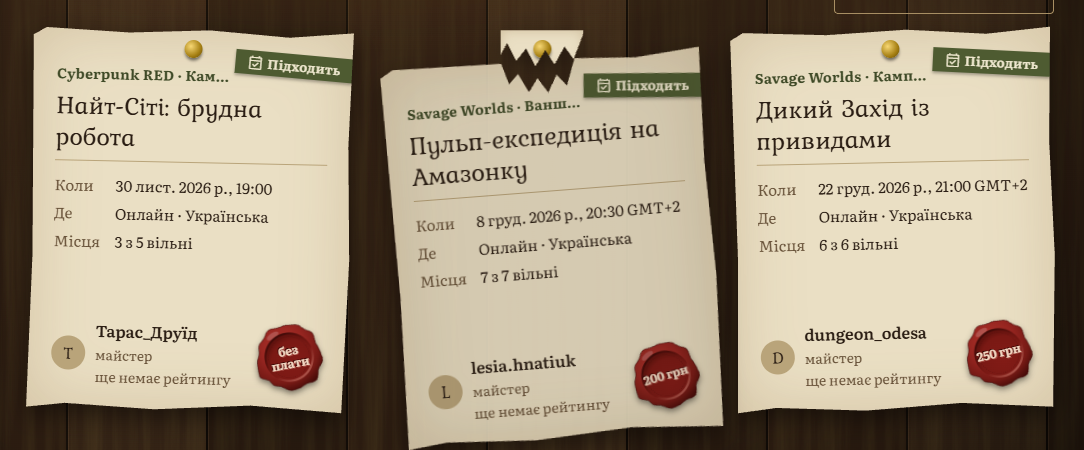
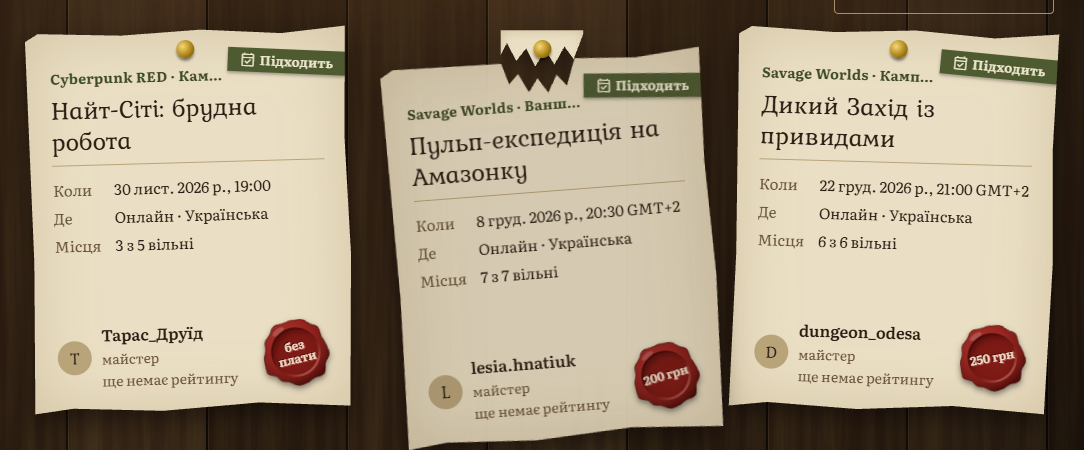
fix(frontend): tear-off guards and focus polish

diff --git a/frontend/src/app/theming/themes/quest-board/game-card/quest-board-game-card.spec.ts b/frontend/src/app/theming/themes/quest-board/game-card/quest-board-game-card.spec.ts
@@ -36,6 +36,8 @@ const game = {
 describe('QuestBoardGameCard — клік і відривання', () => {
   let navigate: ReturnType<typeof vi.fn<(url: unknown) => Promise<boolean>>>;
   let reducedMotion = false;
+  /** Справжній перехід роутера (до підміни шпигуном). */
+  let realNavigate: (url: string) => Promise<boolean>;
 
   async function mount(prefs: UiPrefsDto = { tearAnimation: true }) {
     await TestBed.configureTestingModule({
@@ -51,14 +53,22 @@ describe('QuestBoardGameCard — клік і відривання', () => {
     t.setTranslation('uk', uk);
     t.use('uk');
     navigate = vi.fn<(url: unknown) => Promise<boolean>>(async () => true);
-    vi.spyOn(TestBed.inject(Router), 'navigateByUrl').mockImplementation((url) => navigate(url));
+    const router = TestBed.inject(Router);
+    realNavigate = router.navigateByUrl.bind(router);
+    vi.spyOn(router, 'navigateByUrl').mockImplementation((url) => navigate(url));
+    return create();
+  }
+
+  /** Ще одне оголошення на тій самій «сторінці». */
+  async function create(id = game.id) {
     const fixture = TestBed.createComponent(QuestBoardGameCard);
     fixture.componentRef.setInput(
       'game',
-      toGameCardVm(game, null, { guest: false, genreKey: () => null }),
+      toGameCardVm({ ...game, id }, null, { guest: false, genreKey: () => null }),
     );
     fixture.detectChanges();
     await fixture.whenStable();
+    document.body.appendChild(fixture.nativeElement);
     return fixture;
   }
 
@@ -86,7 +96,7 @@ describe('QuestBoardGameCard — клік і відривання', () => {
 
   it('клік по аркушу: спершу анімація відривання, потім перехід на гру', async () => {
     const f = await mount();
-    vi.useFakeTimers({ toFake: ['setTimeout'] });
+    vi.useFakeTimers({ toFake: ['setTimeout', 'clearTimeout'] });
     click(article(f).querySelector('.sys')!);
     f.detectChanges();
     expect(article(f).classList).toContain('qb-tearing');
@@ -98,7 +108,7 @@ describe('QuestBoardGameCard — клік і відривання', () => {
 
   it('подвійний клік — один перехід', async () => {
     const f = await mount();
-    vi.useFakeTimers({ toFake: ['setTimeout'] });
+    vi.useFakeTimers({ toFake: ['setTimeout', 'clearTimeout'] });
     click(article(f));
     click(article(f));
     vi.advanceTimersByTime(TEAR_MS * 2);
@@ -107,7 +117,7 @@ describe('QuestBoardGameCard — клік і відривання', () => {
 
   it('назва (і Enter на ній) — та сама анімація замість звичайного переходу посилання', async () => {
     const f = await mount();
-    vi.useFakeTimers({ toFake: ['setTimeout'] });
+    vi.useFakeTimers({ toFake: ['setTimeout', 'clearTimeout'] });
     const link = article(f).querySelector<HTMLAnchorElement>('h2 a')!;
     expect(link.getAttribute('href')).toBe('/games/7');
     const ev = click(link, { detail: 0 });
@@ -159,6 +169,67 @@ describe('QuestBoardGameCard — клік і відривання', () => {
     navigate.mockResolvedValueOnce(false);
     click(article(f));
     await f.whenStable();
+    click(article(f));
+    expect(navigate).toHaveBeenCalledTimes(2);
+  });
+
+  it('виділення тексту деінде на сторінці не блокує клік по оголошенню', async () => {
+    const f = await mount();
+    const outside = document.createElement('p');
+    outside.textContent = 'Заголовок сторінки';
+    document.body.appendChild(outside);
+    document.getSelection()!.selectAllChildren(outside);
+    vi.useFakeTimers({ toFake: ['setTimeout', 'clearTimeout'] });
+    click(article(f));
+    vi.advanceTimersByTime(TEAR_MS);
+    expect(navigate).toHaveBeenCalledExactlyOnceWith('/games/7');
+    document.getSelection()!.removeAllRanges();
+    outside.remove();
+  });
+
+  it('анімацію вимкнено й виділено текст цього оголошення — клік не відкриває гру', async () => {
+    const f = await mount({ tearAnimation: false });
+    document.getSelection()!.selectAllChildren(article(f).querySelector('.sys')!);
+    click(article(f).querySelector('.sys')!);
+    expect(navigate).not.toHaveBeenCalled();
+    document.getSelection()!.removeAllRanges();
+  });
+
+  it('два оголошення поспіль під час анімації — перехід лише на перше', async () => {
+    const f = await mount();
+    const other = await create(8);
+    vi.useFakeTimers({ toFake: ['setTimeout', 'clearTimeout'] });
+    click(article(f));
+    click(article(other));
+    vi.advanceTimersByTime(TEAR_MS * 2);
+    expect(navigate).toHaveBeenCalledExactlyOnceWith('/games/7');
+    other.detectChanges();
+    expect(article(other).classList).not.toContain('qb-tearing');
+  });
+
+  it('інший перехід під час анімації скасовує відривання й повертає аркуш', async () => {
+    const f = await mount();
+    vi.useFakeTimers({ toFake: ['setTimeout', 'clearTimeout'] });
+    click(article(f));
+    // Справжній перехід деінде (маршрутів у тесті немає — він завершиться помилкою, але
+    // NavigationStart уже прозвучить).
+    await realNavigate('/calendar').catch(() => false);
+    vi.advanceTimersByTime(TEAR_MS);
+    expect(navigate).not.toHaveBeenCalled();
+    f.detectChanges();
+    expect(article(f).classList).not.toContain('qb-tearing');
+    // Можна відкрити знову — блокування «одне відривання» знято.
+    click(article(f));
+    vi.advanceTimersByTime(TEAR_MS);
+    expect(navigate).toHaveBeenCalledExactlyOnceWith('/games/7');
+  });
+
+  it('помилка переходу — аркуш повертається на місце, клік працює знову', async () => {
+    const f = await mount({ tearAnimation: false });
+    navigate.mockRejectedValueOnce(new Error('chunk load failed'));
+    click(article(f));
+    await f.whenStable();
+    await Promise.resolve();
     click(article(f));
     expect(navigate).toHaveBeenCalledTimes(2);
   });

diff --git a/frontend/src/app/theming/themes/quest-board/game-card/quest-board-game-card.ts b/frontend/src/app/theming/themes/quest-board/game-card/quest-board-game-card.ts
@@ -2,12 +2,15 @@ import {
   ChangeDetectionStrategy,
   Component,
   DestroyRef,
+  ElementRef,
   computed,
   inject,
   input,
   signal,
 } from '@angular/core';
-import { Router, RouterLink } from '@angular/router';
+import { takeUntilDestroyed } from '@angular/core/rxjs-interop';
+import { NavigationStart, Router, RouterLink } from '@angular/router';
+import { filter } from 'rxjs';
 import { MatIconModule } from '@angular/material/icon';
 import { TranslatePipe } from '@ngx-translate/core';
 import type { BadgeVm, GameCardVm } from '../../../../core/games/game-card.vm';
@@ -26,6 +29,12 @@ const MAX_STAMPS = 3;
 export const TEAR_MS = 520;
 /** Інтерактивні елементи всередині оголошення мають власну дію — клік по них не відкриває гру. */
 const INTERACTIVE = 'a, button, input, select, textarea, label, [role="button"]';
+
+/**
+ * Оголошення, що зараз відривається (одне на сторінку): клік по іншому, поки триває анімація,
+ * нічого не робить — інакше перейшли б обидва.
+ */
+let activeTear: symbol | null = null;
 
 /**
  * Слот `game-card` дизайну «Дошка оголошень»: оголошення, приколоте шпилькою до стіни.
@@ -71,6 +80,7 @@ export class QuestBoardGameCard implements GameCardSlot {
   });
 
   private readonly router = inject(Router);
+  private readonly host: HTMLElement = inject(ElementRef).nativeElement;
   private readonly themes = inject(ThemeService);
   protected readonly gameUrl = computed(() => `/games/${this.game().id}`);
   /** Анімацію ввімкнено в профілі (гість — так): тоді й текст оголошення не виділяється. */
@@ -78,12 +88,21 @@ export class QuestBoardGameCard implements GameCardSlot {
   protected readonly tearing = signal(false);
   /** Перехід уже почався — повторний клік (подвійний) нічого не робить. */
   private leaving = false;
+  /** Позначка цього оголошення для `activeTear`. */
+  private readonly tearToken = Symbol('tear');
   private timer: ReturnType<typeof setTimeout> | null = null;
 
   constructor() {
-    inject(DestroyRef).onDestroy(() => {
-      if (this.timer) clearTimeout(this.timer);
-    });
+    inject(DestroyRef).onDestroy(() => this.reset());
+    // Інший перехід (назад, посилання в шапці) під час анімації — скасовуємо свій.
+    this.router.events
+      .pipe(
+        filter((e) => e instanceof NavigationStart),
+        takeUntilDestroyed(),
+      )
+      .subscribe(() => {
+        if (this.timer) this.reset();
+      });
   }
 
   protected onCardClick(event: MouseEvent): void {
@@ -93,14 +112,18 @@ export class QuestBoardGameCard implements GameCardSlot {
     const target = event.target as Element;
     const interactive = target.closest(INTERACTIVE);
     if (interactive && !interactive.classList.contains('open')) return;
-    // Виділення тексту (анімацію вимкнено, щоб копіювати) — не перехід.
-    if (!interactive && document.getSelection()?.toString()) return;
+    // Користувач виділяє текст цього оголошення (лише коли анімацію вимкнено — інакше текст
+    // не виділяється) — не перехід. Виділення деінде на сторінці кліку не заважає.
+    if (!interactive && !this.tearEnabled()) {
+      const sel = document.getSelection();
+      if (sel?.toString() && sel.anchorNode && this.host.contains(sel.anchorNode)) return;
+    }
     event.preventDefault();
     this.open();
   }
 
   private open(): void {
-    if (this.leaving) return;
+    if (this.leaving || activeTear) return;
     this.leaving = true;
     const reduced =
       typeof matchMedia === 'function' && matchMedia('(prefers-reduced-motion: reduce)').matches;
@@ -108,18 +131,29 @@ export class QuestBoardGameCard implements GameCardSlot {
       this.navigate();
       return;
     }
+    activeTear = this.tearToken;
     this.tearing.set(true);
     this.timer = setTimeout(() => this.navigate(), TEAR_MS);
   }
 
   private navigate(): void {
     this.timer = null;
-    void this.router.navigateByUrl(this.gameUrl()).then((ok) => {
-      // Перехід скасовано (guard) — оголошення повертається на місце.
-      if (!ok) {
-        this.leaving = false;
-        this.tearing.set(false);
-      }
-    });
+    // Перехід скасовано (guard) чи впав — оголошення повертається на місце, а не лишається
+    // «відірваним».
+    this.router.navigateByUrl(this.gameUrl()).then(
+      (ok) => {
+        if (!ok) this.reset();
+      },
+      () => this.reset(),
+    );
+  }
+
+  /** Повернути оголошення на місце й звільнити «одне відривання на сторінку». */
+  private reset(): void {
+    if (this.timer) clearTimeout(this.timer);
+    this.timer = null;
+    this.leaving = false;
+    this.tearing.set(false);
+    if (activeTear === this.tearToken) activeTear = null;
   }
 }

diff --git a/frontend/src/app/features/account/theme-picker/theme-picker.spec.ts b/frontend/src/app/features/account/theme-picker/theme-picker.spec.ts
@@ -90,6 +90,33 @@ describe('ThemePicker («Вигляд»)', () => {
     expect(tearSwitch(fixture.nativeElement)?.getAttribute('aria-checked')).toBe('false');
   });
 
+  it('поки налаштування зберігається, перемикач лишається у фокусі (aria-disabled)', async () => {
+    const themes = fakeThemes(['quest-board']);
+    let done!: () => void;
+    themes.saveUiPrefs.mockImplementation(
+      () =>
+        new Promise<void>((resolve) => {
+          done = resolve;
+        }),
+    );
+    const fixture = await render(themes);
+    const el: HTMLElement = fixture.nativeElement;
+    document.body.appendChild(el);
+    const sw = tearSwitch(el)!;
+    sw.focus();
+    sw.click();
+    fixture.detectChanges();
+    expect(sw.hasAttribute('disabled')).toBe(false);
+    expect(sw.getAttribute('aria-disabled')).toBe('true');
+    expect(document.activeElement).toBe(sw);
+    // Повторний клік під час збереження нічого не надсилає.
+    sw.click();
+    expect(themes.saveUiPrefs).toHaveBeenCalledTimes(1);
+    done();
+    await fixture.whenStable();
+    el.remove();
+  });
+
   it('помилка збереження анімації — повідомлення й попередній стан перемикача', async () => {
     const themes = fakeThemes(['quest-board']);
     themes.saveUiPrefs.mockRejectedValue(

diff --git a/frontend/src/app/theming/themes/quest-board/quest-board.less b/frontend/src/app/theming/themes/quest-board/quest-board.less
@@ -394,6 +394,8 @@
     }
   }
 
+  // Клапоть під шпилькою: папір із рваним краєм — окремий шар (::before з clip-path), а шпилька
+  // лежить над ним і не обрізається.
   .qb-tear-stub {
     position: absolute;
     top: 0;
@@ -402,23 +404,33 @@
     width: 26%;
     height: 9.5%;
     transform: translateX(-50%);
-    background-color: var(--qb-parchment);
-    box-shadow: inset 0 0 12px rgba(120, 80, 30, 0.25);
-    clip-path: polygon(
-      0 0,
-      100% 0,
-      100% 8%,
-      88% 80%,
-      77% 45%,
-      65% 95%,
-      54% 55%,
-      42% 100%,
-      31% 50%,
-      19% 85%,
-      8% 35%,
-      0 70%
-    );
     pointer-events: none;
+
+    &::before {
+      content: '';
+      position: absolute;
+      inset: 0;
+      background-color: var(--qb-parchment);
+      box-shadow: inset 0 0 12px rgba(120, 80, 30, 0.25);
+      clip-path: polygon(
+        0 0,
+        100% 0,
+        100% 8%,
+        88% 80%,
+        77% 45%,
+        65% 95%,
+        54% 55%,
+        42% 100%,
+        31% 50%,
+        19% 85%,
+        8% 35%,
+        0 70%
+      );
+    }
+
+    .qb-pin {
+      z-index: 1;
+    }
   }
 
   // Стрічка-закладка (мох).

diff --git a/frontend/src/app/shared/truncate-tooltip/truncate-tooltip.ts b/frontend/src/app/shared/truncate-tooltip/truncate-tooltip.ts
@@ -43,8 +43,11 @@ export class TruncateTooltip {
   private readonly el: HTMLElement = inject(ElementRef).nativeElement;
   private readonly tooltip = inject(MatTooltip);
   private readonly injector = inject(Injector);
-  /** Чи елемент фокусується сам (тоді tabindex не чіпаємо). */
-  private readonly ownFocus = this.el.matches(FOCUSABLE);
+  /**
+   * Чи елемент фокусується сам (тоді tabindex не чіпаємо). Визначається при першій перевірці,
+   * а не в конструкторі: прив'язки (`[attr.href]`) на той момент ще не застосовані.
+   */
+  private ownFocus: boolean | null = null;
 
   constructor() {
     this.tooltip.touchGestures = 'off';
@@ -70,6 +73,7 @@ export class TruncateTooltip {
     const slack = parseFloat(getComputedStyle(this.el).lineHeight) / 2 || 4;
     const truncated = scrollWidth > clientWidth + 1 || scrollHeight > clientHeight + slack;
     this.tooltip.disabled = !truncated;
+    this.ownFocus ??= this.el.matches(FOCUSABLE);
     if (this.ownFocus) return;
     if (truncated) this.el.setAttribute('tabindex', '0');
     else this.el.removeAttribute('tabindex');

diff --git a/frontend/src/app/features/account/theme-picker/theme-picker.ts b/frontend/src/app/features/account/theme-picker/theme-picker.ts
@@ -53,6 +53,9 @@ export class ThemePicker {
   protected readonly errorKey = signal<string | null>(null);
 
   protected async setTearAnimation(on: boolean): Promise<void> {
+    // Поки зберігається, перемикач лише «вимкнений» на вигляд (disabledInteractive — фокус
+    // лишається на ньому).
+    if (this.prefsBusy()) return;
     this.errorKey.set(null);
     this.prefsBusy.set(true);
     try {

diff --git a/frontend/src/app/features/account/theme-picker/theme-picker.html b/frontend/src/app/features/account/theme-picker/theme-picker.html
@@ -32,6 +32,7 @@
           #tearToggle
           [checked]="tearAnimation()"
           [disabled]="prefsBusy()"
+          disabledInteractive
           aria-describedby="tear-animation-hint"
           (change)="setTearAnimation($event.checked)"
           >{{ 'account.theme.tearAnimation' | translate }}</mat-slide-toggle

diff --git a/docs/superpowers/backlog.md b/docs/superpowers/backlog.md
@@ -121,7 +121,11 @@
 
 ## Після Плану 8
 
-- **CSP `script-src`:** інлайн-скрипт у `frontend/src/index.html` (ранній дизайн без мигання) зараз не заважає — у CSP немає `script-src` для фронту. Якщо `script-src` з'явиться, потрібен хеш скрипту: `sha256-X+jysxMltMjeHwpAGHqws5ggfBpnQ/oyCg6xIoqvH+A=` (після «дубового» фону дошки; перерахувати після будь-якої зміни скрипта).
+- **CSP `script-src`:** інлайн-скрипт у `frontend/src/index.html` (ранній дизайн без мигання) зараз не заважає — у CSP немає `script-src` для фронту. Якщо `script-src` з'явиться, потрібен хеш скрипту: `sha256-sGf1dRJMvDiy8dDY1QAE3D0xFkJJccRQryCWYwYgaJo=` (після «дубового» фону дошки; рахується з LF-вмісту скрипта, як у репозиторії й збірці, — `
+
+`→`
+` перед sha256; перерахувати після будь-якої зміни скрипта).
+
 - **Інші концепти як дизайни:** аркуш персонажа, кубики, мапа світів, ліхтар.
 - **Мапа / «афіша» як функції** (а не лише дизайн).
 - **Відкладені дрібниці:**
